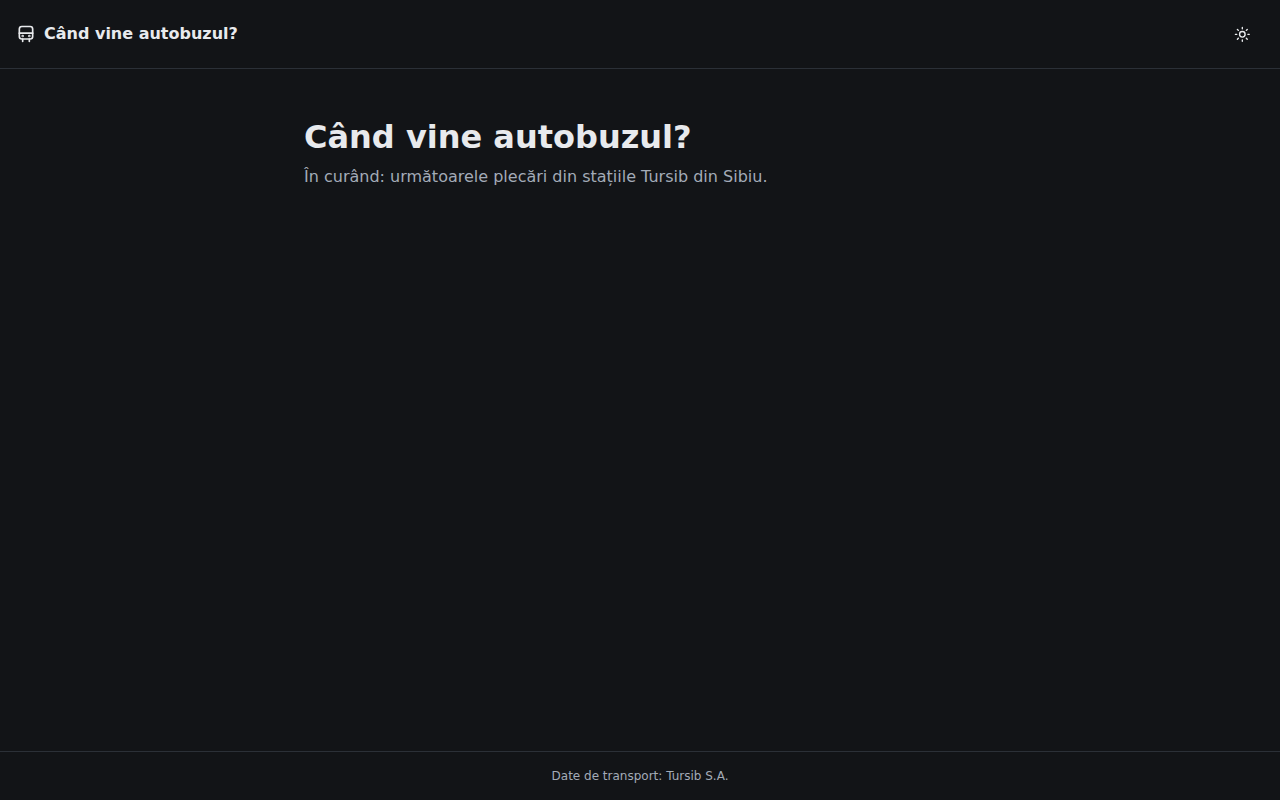
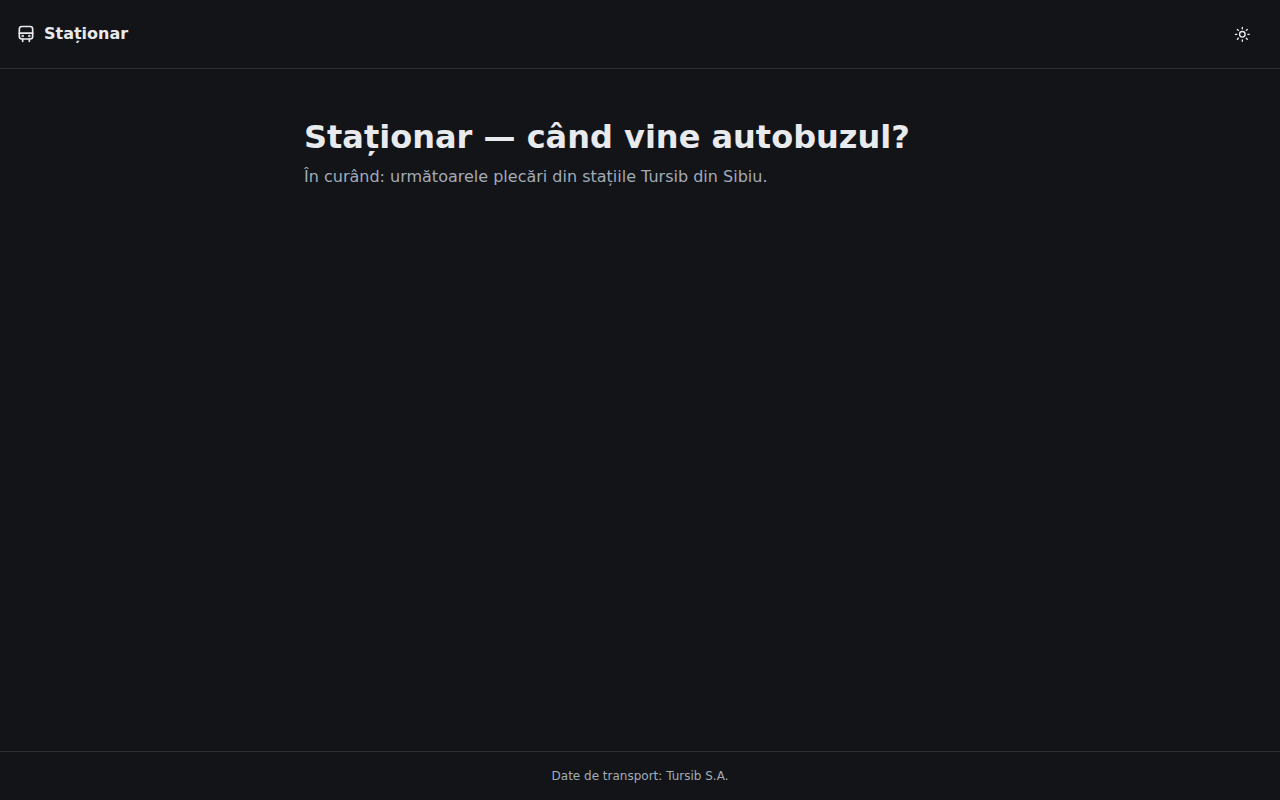
feat(nume): rename the app to "Stationar — cand vine autobuzul?" (D-041)
The header shows the short name "Stationar" on every screen; <title>,
<h1> and README use the full name. The catalog project title (P07
"Cand vine autobuzul?") stays where the project is named. Same text in
the five mocks, which stay approved (only the D-041 text changes, not
the design). Screenshots retaken light/dark at 360 and 1280 px.

Changed region(s): [[0.2188, 0.1562, 0.7188, 0.1875], [0.0312, 0.0312, 0.1875, 0.0625]]

diff --git a/docs/design/mocks/DS-autobuze-antet.html b/docs/design/mocks/DS-autobuze-antet.html
@@ -9,7 +9,8 @@
      alegerea se ține în localStorage și are prioritate; două stări, fără „înapoi la sistem”.
      Variantele: doar numele aplicației (pagina „hello”, până există celelalte pagini),
      vizitator cu navigare, utilizator logat. Sub antet: pagina „hello” (textul din plan)
-     și subsolul (D-008). Doar tokens din DESIGN.md. -->
+     și subsolul (D-008). Doar tokens din DESIGN.md.
+     Numele din D-041 (2026-11-19): antetul „Staționar”, titlul paginii numele complet; status neschimbat. -->
 <style>
 /* ===== Tokens — copiate din docs/design/DESIGN.md (D-027) ===== */
 :root {
@@ -121,7 +122,7 @@ main p { margin: var(--space-2) 0 0; color: var(--color-text-muted); }
 <div class="frame" id="frame" data-width="360">
 <div class="page">
   <header class="antet">
-    <a class="brand" href="#"><svg class="ic" aria-hidden="true"><use href="#i-bus"/></svg>Când vine autobuzul?</a>
+    <a class="brand" href="#"><svg class="ic" aria-hidden="true"><use href="#i-bus"/></svg>Staționar</a>
     <nav aria-label="Navigare principală" id="nav" hidden></nav>
     <button class="tema" type="button" id="tema" aria-pressed="false" aria-label="Temă întunecată" title="Temă întunecată">
       <svg class="ic luna" aria-hidden="true"><use href="#i-luna"/></svg>
@@ -130,7 +131,7 @@ main p { margin: var(--space-2) 0 0; color: var(--color-text-muted); }
   </header>
 
   <main>
-    <h1>Când vine autobuzul?</h1>
+    <h1>Staționar — când vine autobuzul?</h1>
     <p>În curând: următoarele plecări din stațiile Tursib din Sibiu.</p>
   </main>
 

diff --git a/docs/design/mocks/DS-autobuze-statie.html b/docs/design/mocks/DS-autobuze-statie.html
@@ -5,7 +5,7 @@
 <meta name="viewport" content="width=device-width, initial-scale=1">
 <title>DS-autobuze-statie · mock</title>
 <!-- Răspunsurile autorului (2026-11-19) la întrebările din primul draft (f1ccd7f):
-     1. Numele în antet rămâne „Când vine autobuzul?”.
+     1. Numele în antet rămâne „Când vine autobuzul?”. (Înlocuit de D-041, 2026-11-19: antetul arată „Staționar”.)
      2. Ora exactă mare; „în X min” mic, dedesubt.
      3. O cursă cu ora 24:41 în feed apare ca „00:41”, fără altă notă.
      4. Un singur buton „Raportează o abatere” pe fiecare grup de linie și sens, doar pentru
@@ -203,7 +203,7 @@ a.eticheta::after { content: ""; position: absolute; inset: calc(-1 * var(--spac
 <div class="frame" id="frame" data-width="360">
 <div class="page">
   <header class="antet">
-    <a class="brand" href="DS-autobuze-harta.html" data-mock><svg class="ic" aria-hidden="true"><use href="#i-bus"/></svg>Când vine autobuzul?</a>
+    <a class="brand" href="DS-autobuze-harta.html" data-mock><svg class="ic" aria-hidden="true"><use href="#i-bus"/></svg>Staționar</a>
     <nav aria-label="Navigare principală">
       <a href="DS-autobuze-harta.html" data-mock>Hartă</a>
       <a href="DS-autobuze-planificator.html" data-mock>Planificator</a>

diff --git a/src/main/resources/templates/fragments/antet.html b/src/main/resources/templates/fragments/antet.html
@@ -9,7 +9,7 @@
     <symbol id="i-luna" viewBox="0 0 24 24"><path d="M20 14.5A8 8 0 0 1 9.5 4a8 8 0 1 0 10.5 10.5z"/></symbol>
     <symbol id="i-soare" viewBox="0 0 24 24"><circle cx="12" cy="12" r="4"/><path d="M12 2v2M12 20v2M2 12h2M20 12h2M4.9 4.9l1.4 1.4M17.7 17.7l1.4 1.4M4.9 19.1l1.4-1.4M17.7 6.3l1.4-1.4"/></symbol>
   </svg>
-  <a class="brand" th:href="@{/}" href="/"><svg class="ic" aria-hidden="true"><use href="#i-bus"/></svg>Când vine autobuzul?</a>
+  <a class="brand" th:href="@{/}" href="/"><svg class="ic" aria-hidden="true"><use href="#i-bus"/></svg>Staționar</a>
   <button class="tema" type="button" aria-pressed="false" aria-label="Temă întunecată" title="Temă întunecată">
     <svg class="ic luna" aria-hidden="true"><use href="#i-luna"/></svg>
     <svg class="ic soare" aria-hidden="true"><use href="#i-soare"/></svg>

diff --git a/src/main/resources/templates/hello.html b/src/main/resources/templates/hello.html
@@ -2,11 +2,11 @@
 <html lang="ro" xmlns:th="http://www.thymeleaf.org">
 <!-- Pagina „hello” de la „/”: temporară, până la DS-autobuze-harta (D-022). Fără DS-ID. -->
 <!-- noindex: pagina e temporară; se scoate odată cu harta (DS-autobuze-harta, D-022). -->
-<head th:replace="~{fragments/head :: head('Când vine autobuzul?', 'noindex')}"></head>
+<head th:replace="~{fragments/head :: head('Staționar — când vine autobuzul?', 'noindex')}"></head>
 <body>
 <header th:replace="~{fragments/antet :: antet}"></header>
 <main>
-  <h1>Când vine autobuzul?</h1>
+  <h1>Staționar — când vine autobuzul?</h1>
   <p>În curând: următoarele plecări din stațiile Tursib din Sibiu.</p>
 </main>
 <footer th:replace="~{fragments/subsol :: subsol}"></footer>

diff --git a/docs/design/mocks/DS-autobuze-harta.html b/docs/design/mocks/DS-autobuze-harta.html
@@ -191,7 +191,7 @@ input[type="search"] { flex: 1 1 calc(var(--space-7) * 3); font: var(--text-md) 
 <div class="frame" id="frame" data-width="360">
 <div class="page">
   <header class="antet">
-    <a class="brand" href="DS-autobuze-harta.html" data-mock><svg class="ic" aria-hidden="true"><use href="#i-bus"/></svg>Când vine autobuzul?</a>
+    <a class="brand" href="DS-autobuze-harta.html" data-mock><svg class="ic" aria-hidden="true"><use href="#i-bus"/></svg>Staționar</a>
     <nav aria-label="Navigare principală">
       <a href="DS-autobuze-harta.html" data-mock aria-current="page">Hartă</a>
       <a href="DS-autobuze-planificator.html" data-mock>Planificator</a>

diff --git a/docs/design/mocks/DS-autobuze-planificator.html b/docs/design/mocks/DS-autobuze-planificator.html
@@ -174,7 +174,7 @@ a.eticheta::after { content: ""; position: absolute; inset: calc(-1 * var(--spac
 <div class="frame" id="frame" data-width="360">
 <div class="page">
   <header class="antet">
-    <a class="brand" href="DS-autobuze-harta.html" data-mock><svg class="ic" aria-hidden="true"><use href="#i-bus"/></svg>Când vine autobuzul?</a>
+    <a class="brand" href="DS-autobuze-harta.html" data-mock><svg class="ic" aria-hidden="true"><use href="#i-bus"/></svg>Staționar</a>
     <nav aria-label="Navigare principală">
       <a href="DS-autobuze-harta.html" data-mock>Hartă</a>
       <a href="DS-autobuze-planificator.html" data-mock aria-current="page">Planificator</a>

diff --git a/docs/design/mocks/DS-autobuze-login.html b/docs/design/mocks/DS-autobuze-login.html
@@ -125,7 +125,7 @@ input[aria-invalid="true"] { border-color: var(--color-danger); }
 <div class="frame" id="frame" data-width="360">
 <div class="page">
   <header class="antet">
-    <a class="brand" href="DS-autobuze-harta.html" data-mock><svg class="ic" aria-hidden="true"><use href="#i-bus"/></svg>Când vine autobuzul?</a>
+    <a class="brand" href="DS-autobuze-harta.html" data-mock><svg class="ic" aria-hidden="true"><use href="#i-bus"/></svg>Staționar</a>
     <nav aria-label="Navigare principală">
       <a href="DS-autobuze-harta.html" data-mock>Hartă</a>
       <a href="DS-autobuze-planificator.html" data-mock>Planificator</a>

diff --git a/src/main/resources/templates/fragments/head.html b/src/main/resources/templates/fragments/head.html
@@ -3,7 +3,7 @@
 <head th:fragment="head(titlu, robots)">
   <meta charset="utf-8">
   <meta name="viewport" content="width=device-width, initial-scale=1">
-  <title th:text="${titlu}">Când vine autobuzul?</title>
+  <title th:text="${titlu}">Staționar — când vine autobuzul?</title>
   <meta name="robots" th:if="${robots}" th:content="${robots}">
   <!-- Alegerea de temă salvată (D-039) se aplică înainte de afișare, ca pagina să nu clipească. -->
   <script>try { var t = localStorage.getItem("tema"); if (t === "light" || t === "dark") document.documentElement.dataset.theme = t; } catch (e) {}</script>

diff --git a/SCOPE.md b/SCOPE.md
@@ -6,6 +6,9 @@
 > pe el până atunci.
 
 ## Pe scurt
+Numele aplicației: „Staționar — când vine autobuzul?”, scurt „Staționar” (D-041). Titlul proiectului din catalog
+rămâne P07 „Când vine autobuzul?”.
+
 Aplicație web pentru transportul public din Sibiu, pe feed-ul GTFS al Tursib S.A.
 (`DATA.md`): import complet, căutare de stații pe hartă, următoarele plecări,
 vizualizarea traseelor, un planificator cu maxim un transfer, favorite și abateri

diff --git a/README.md b/README.md
@@ -1,4 +1,6 @@
-# Când vine autobuzul?
+# Staționar — când vine autobuzul?
+
+Nume scurt: **Staționar**. Proiectul P07 din catalog: „Când vine autobuzul?”.
 
 Aplicație web pentru transportul public din Sibiu, construită pe orarul GTFS publicat de
 Tursib S.A. Proiect educațional (P07), necomercial.
